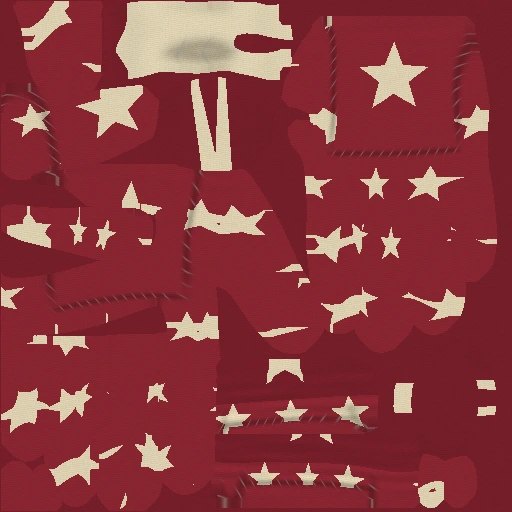
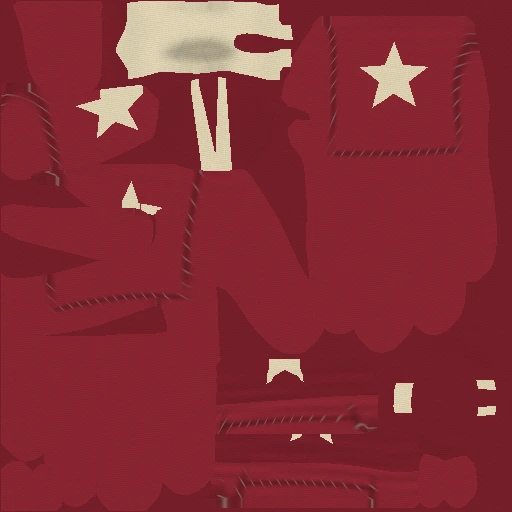
fix: limpar o desenho repetido na luva em primeira pessoa
Agent: Codex

diff --git a/public/js/vmhands.js b/public/js/vmhands.js
@@ -65,7 +65,8 @@ export function applyTeamHandMaterial(material, profile, layout) {
   // Os atlas têm UVs distintos; só a identidade é comum. Não colar UV de um rig no outro.
   if (typeof document !== 'undefined' && !(typeof process !== 'undefined' && process.versions?.node)) {
     if (!maps.has(key)) {
-      const map = new THREE.TextureLoader().load(`/models/viewmodels/coro/hands/${key}.webp?v=${HAND_ATLAS_VERSION}`, undefined, undefined,
+      const colorVersion = key === 'pistol/glove-E' ? 'team-hands-11' : HAND_ATLAS_VERSION;
+      const map = new THREE.TextureLoader().load(`/models/viewmodels/coro/hands/${key}.webp?v=${colorVersion}`, undefined, undefined,
         (error) => console.error(`[viewmodel-hands] ${key}`, error));
       map.flipY = false;
       map.colorSpace = THREE.SRGBColorSpace;

diff --git a/docs/reports/FP-GLOVE-READABILITY-CONTINUATION-20261101.md b/docs/reports/FP-GLOVE-READABILITY-CONTINUATION-20261101.md
@@ -1,0 +1,94 @@
+# Leitura da luva em primeira pessoa
+
+Parte da missão de consistência de mapas, personagens, skins, movimento, PRs e
+release; UI/redes sociais depois e #1158 excluído. Root mantém a escrita sequencial
+de arma/mão/animação/ADS/HUD e o navegador. Base `7d98ac9cdbb6ea293e006696601220d3c02b8d17`,
+branch `codex/fp-glove-readability-r359-20261101`, após a correção das partes TP.
+O estado integral fica na auditoria externa `2026-10-31-visual-consistency`.
+
+R362 é um piloto externo, sem alteração do produto. Usou o leitor, campos UV e
+pintor reais, com o GLB privado de pistola fixado por hash. Reproduziu os seis
+atlases E publicados byte a byte. O candidato suprime somente estrelas repetidas
+na cor da luva do layout `pistol`; mantém o emblema principal, paleta, manga,
+pele, alturas, UV, rig e geometria. Apenas `glove-E.webp` difere; os outros
+arquivos são byteexatos. O layout também serve outras armas: não é uma correção
+exclusiva da pistola. Recibo e candidato: `FP-ATLAS-PILOT-R362.json` e diretório
+homônimo na auditoria externa.
+
+R360 recusou a preparação oficial por divergência do GLB mosin antes de montar
+assets privados. R361 falhou ao resolver Sharp por caminho presumido; R362 usou
+`createRequire` do pacote instalado. Falhas preservadas, sem crédito de validação.
+Não se declara o catálogo privado validado nem se contorna o preflight oficial.
+
+R373 comparou o mesmo Game iniciado pela UI de convidado, Esquerdomacho, pistola,
+Piscina, com pausa normal, viewport 3:2, mesma pose/luz/tempo e normalMap nulo.
+Após um warmup, três imagens A são byteexatas; B difere somente na região da luva,
+e A restaurada é byteexata. Referências e overlays restaurados no finally, sem
+avanço/escrita de mixer ou relógio. Root olhou os dois frames. Crítico independente
+R375 aprovou B somente para limpeza/legibilidade; realismo, identidade, dedos e
+pega não foram aprovados. R369 recusou dimensões presumidas; R371 recusou uma
+primeira captura não neutra antes de renderizar B. Ambas preservadas sem promoção.
+R383 saiu pela confirmação normal e restaurou exatamente as preferências de R363;
+página em branco, emulação limpa e nenhum handle próprio restante.
+
+R380 exercitou os campos UV reais dos rigs publicados, todos os estilos no papel
+de luva pistol e E nos demais papéis/layouts. Só o albedo alvo mudou; alturas e
+chamadas sem argumento layout preservaram os bytes legados. A classificação de
+lado no UV compartilhado não prova as duas mãos separadamente.
+
+A régua existente passou a medir o centro da face 2333 do material de luva K,
+GLB de fonte fixado em R362. UV glTF médio (0.0965447823, 0.0676100651), convertido
+para a convenção vertical dos landmarks, amostra o pixel (49,34). O peso distal
+interpolado é 0.9753. O atlas antigo dá RGB (252,210,190), próximo ao acento; o
+candidato dá (137,38,49), próximo à paleta da luva. A régua exige a cor da luva
+mais próxima que o acento nesse ponto, usando a distância já existente, sem teto
+novo. R382 ficou RED somente nesse ponto antes da alteração; R384 passou.
+
+R385 executou o gerador real focal, com a fonte privada do rig ligada em processo
+ao caminho e hash de R362. Os arquivos foram copiados/restaurados no finally;
+nenhuma montagem nem aprovação do catálogo privado. Nominal reproduz os seis
+arquivos esperados. Numa cópia temporária real do gerador, retirar o argumento
+layout repinta o atlas antigo e a régua fica RED no mesmo landmark. Restauração
+volta a GREEN. Isso verifica o caller, além da função de pintura isolada.
+
+O patch adota somente o albedo validado, informa layout no gerador e muda somente
+o query de cache desse albedo. HAND_ATLAS_VERSION e todos os mapas de altura
+mantêm a versão anterior. R387 passou em sintaxe e sete de oito focais. O alias
+assetrev passou no nominal e nos dois primeiros mutantes, mas o mutante
+manifesto-cru não encontrou sua âncora após o fetch ganhar opções de abort.
+R396 conferiu checker, consumidor e helper byteexatos à base 7d98; é uma dívida
+herdada, mantida separada, e o alias inteiro não recebe crédito de GREEN.
+R401 passou no build normal, sem alterar nenhum arquivo fora dos seis previstos.
+R402 confirmou os dois controles antigos do atlas: punho descoberto e dedos
+cobertos continuam RED, com 136 e 25 cláusulas vermelhas, respectivamente.
+
+R403 reuniu somente os 63 arquivos exatos do manifesto de runtime, de cópias
+locais existentes: 61 da árvore integrada e dois da árvore original. A ferramenta
+oficial fetch-viewmodels instalou e conferiu 63/63 por SHA-256; a preparação
+oficial com assert-clean aprovou o diretório regular, sem symlink. Isso valida o
+pack de runtime desta worktree, sem mudar fontes privadas ou manifesto e sem
+aprovar o catálogo de fontes que falhou em R360. O pack não integra o diff Git.
+
+R408 iniciou pela UI normal da própria worktree: convidado, personagem E,
+Piscina, pistola autorada, 1x1, vivo e pausado pelo botão de configurações.
+Sete módulos HTTP conferem com disco. Os seis mapas dos três materiais estão
+carregados; cada imagem decodificada em uso coincide com o corpo HTTP e seus
+bytes coincidem com o arquivo esperado. Somente a cor da luva usa team-hands-11;
+os cinco demais usam team-hands-10. A captura tem viewport CSS 1320x880, com
+buffer adaptativo real 660x440 e pós-processamento existente preservado.
+O bloco de desenho do Game foi chamado sem update, escrita de tempo/mixer/pose
+ou troca de material; guardas de estado e ossos ficaram iguais. Apenas overlays
+foram ocultados temporariamente e restaurados. Root olhou o PNG: limpeza focal
+confirmada, mas dedos grosseiros e contato com a pistola continuam dívida.
+Esta imagem não substitui o par causal estático R373 nem aprova arte completa.
+R407 recusou a hipótese incorreta de buffer nativo 1320x880 e fica inconclusivo.
+R409 saiu pela confirmação normal e restaurou exatamente as seis preferências
+salvas antes do carregamento em R400; sem Game ou slot próprio, página em branco
+e emulação limpa. Próximo passo: revisão inteira GLM e crítico independente dos
+seis arquivos congelados, checkpoint e PR normal empilhado sobre #1198.
+
+PR #1194 entrou por merge normal em staging. #1197 foi retargetado para staging;
+#1198 contém a correção das partes TP, empilhado sobre #1197 após push normal.
+Main/release134 e staging são estados
+separados. CI atual, merges normais, release e convergência do backend continuam
+pendentes de evidência. Dedos, pega, animação, MP e mobile físico não estão aprovados.
